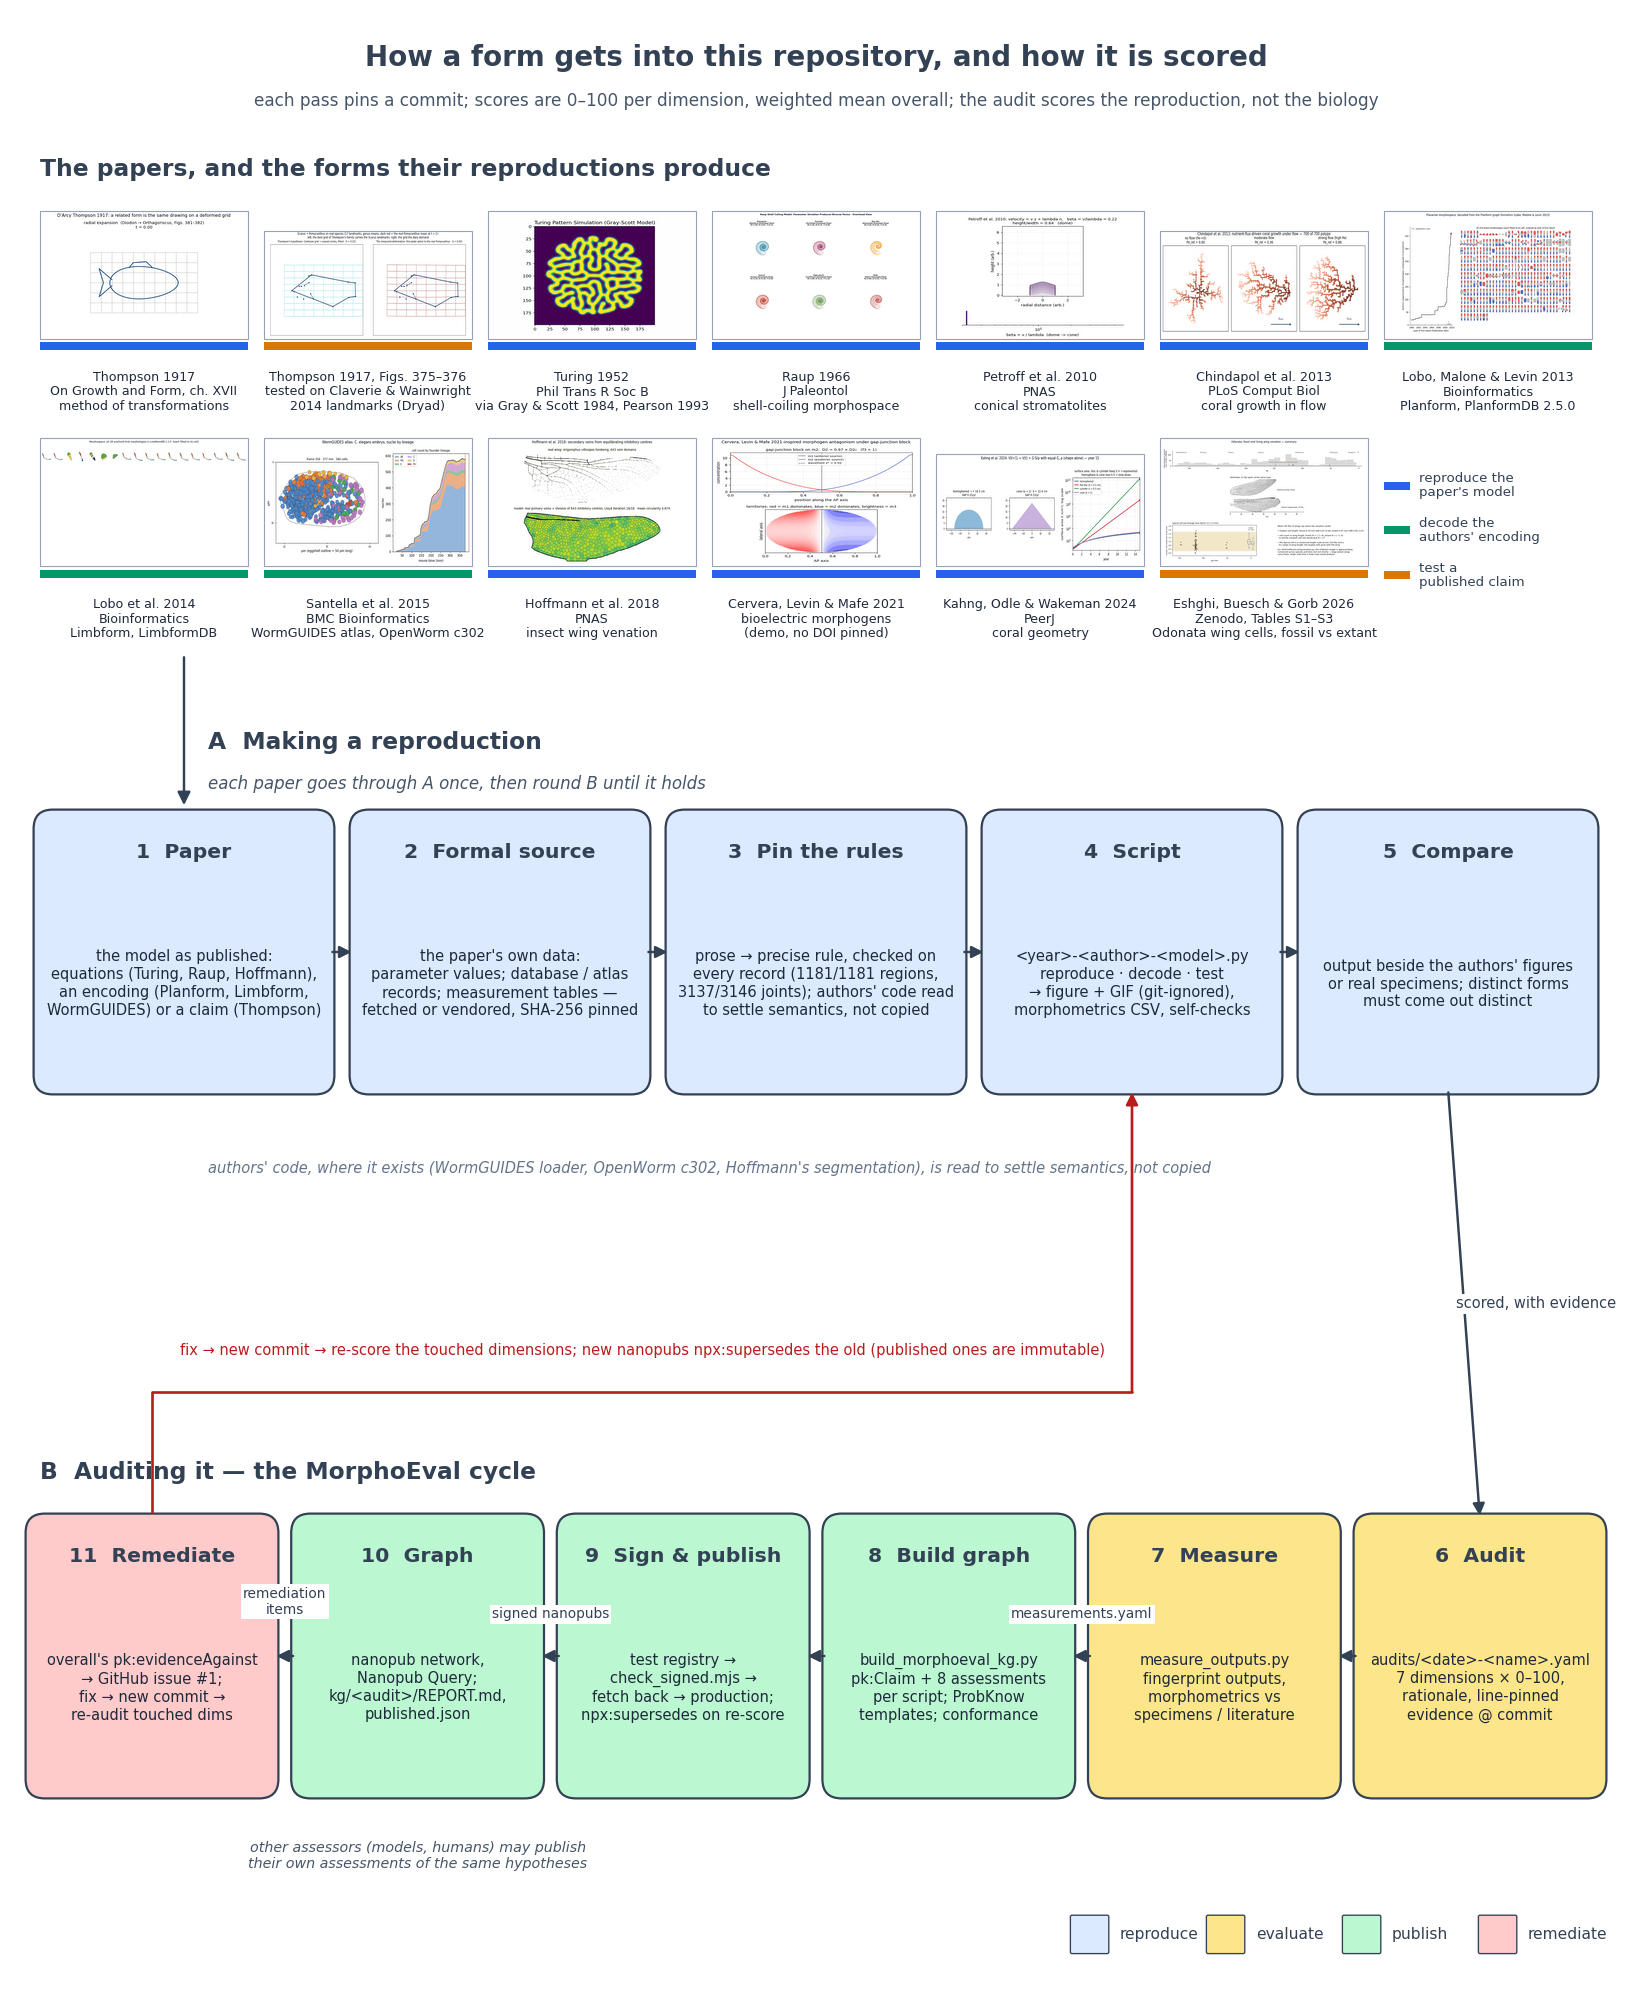
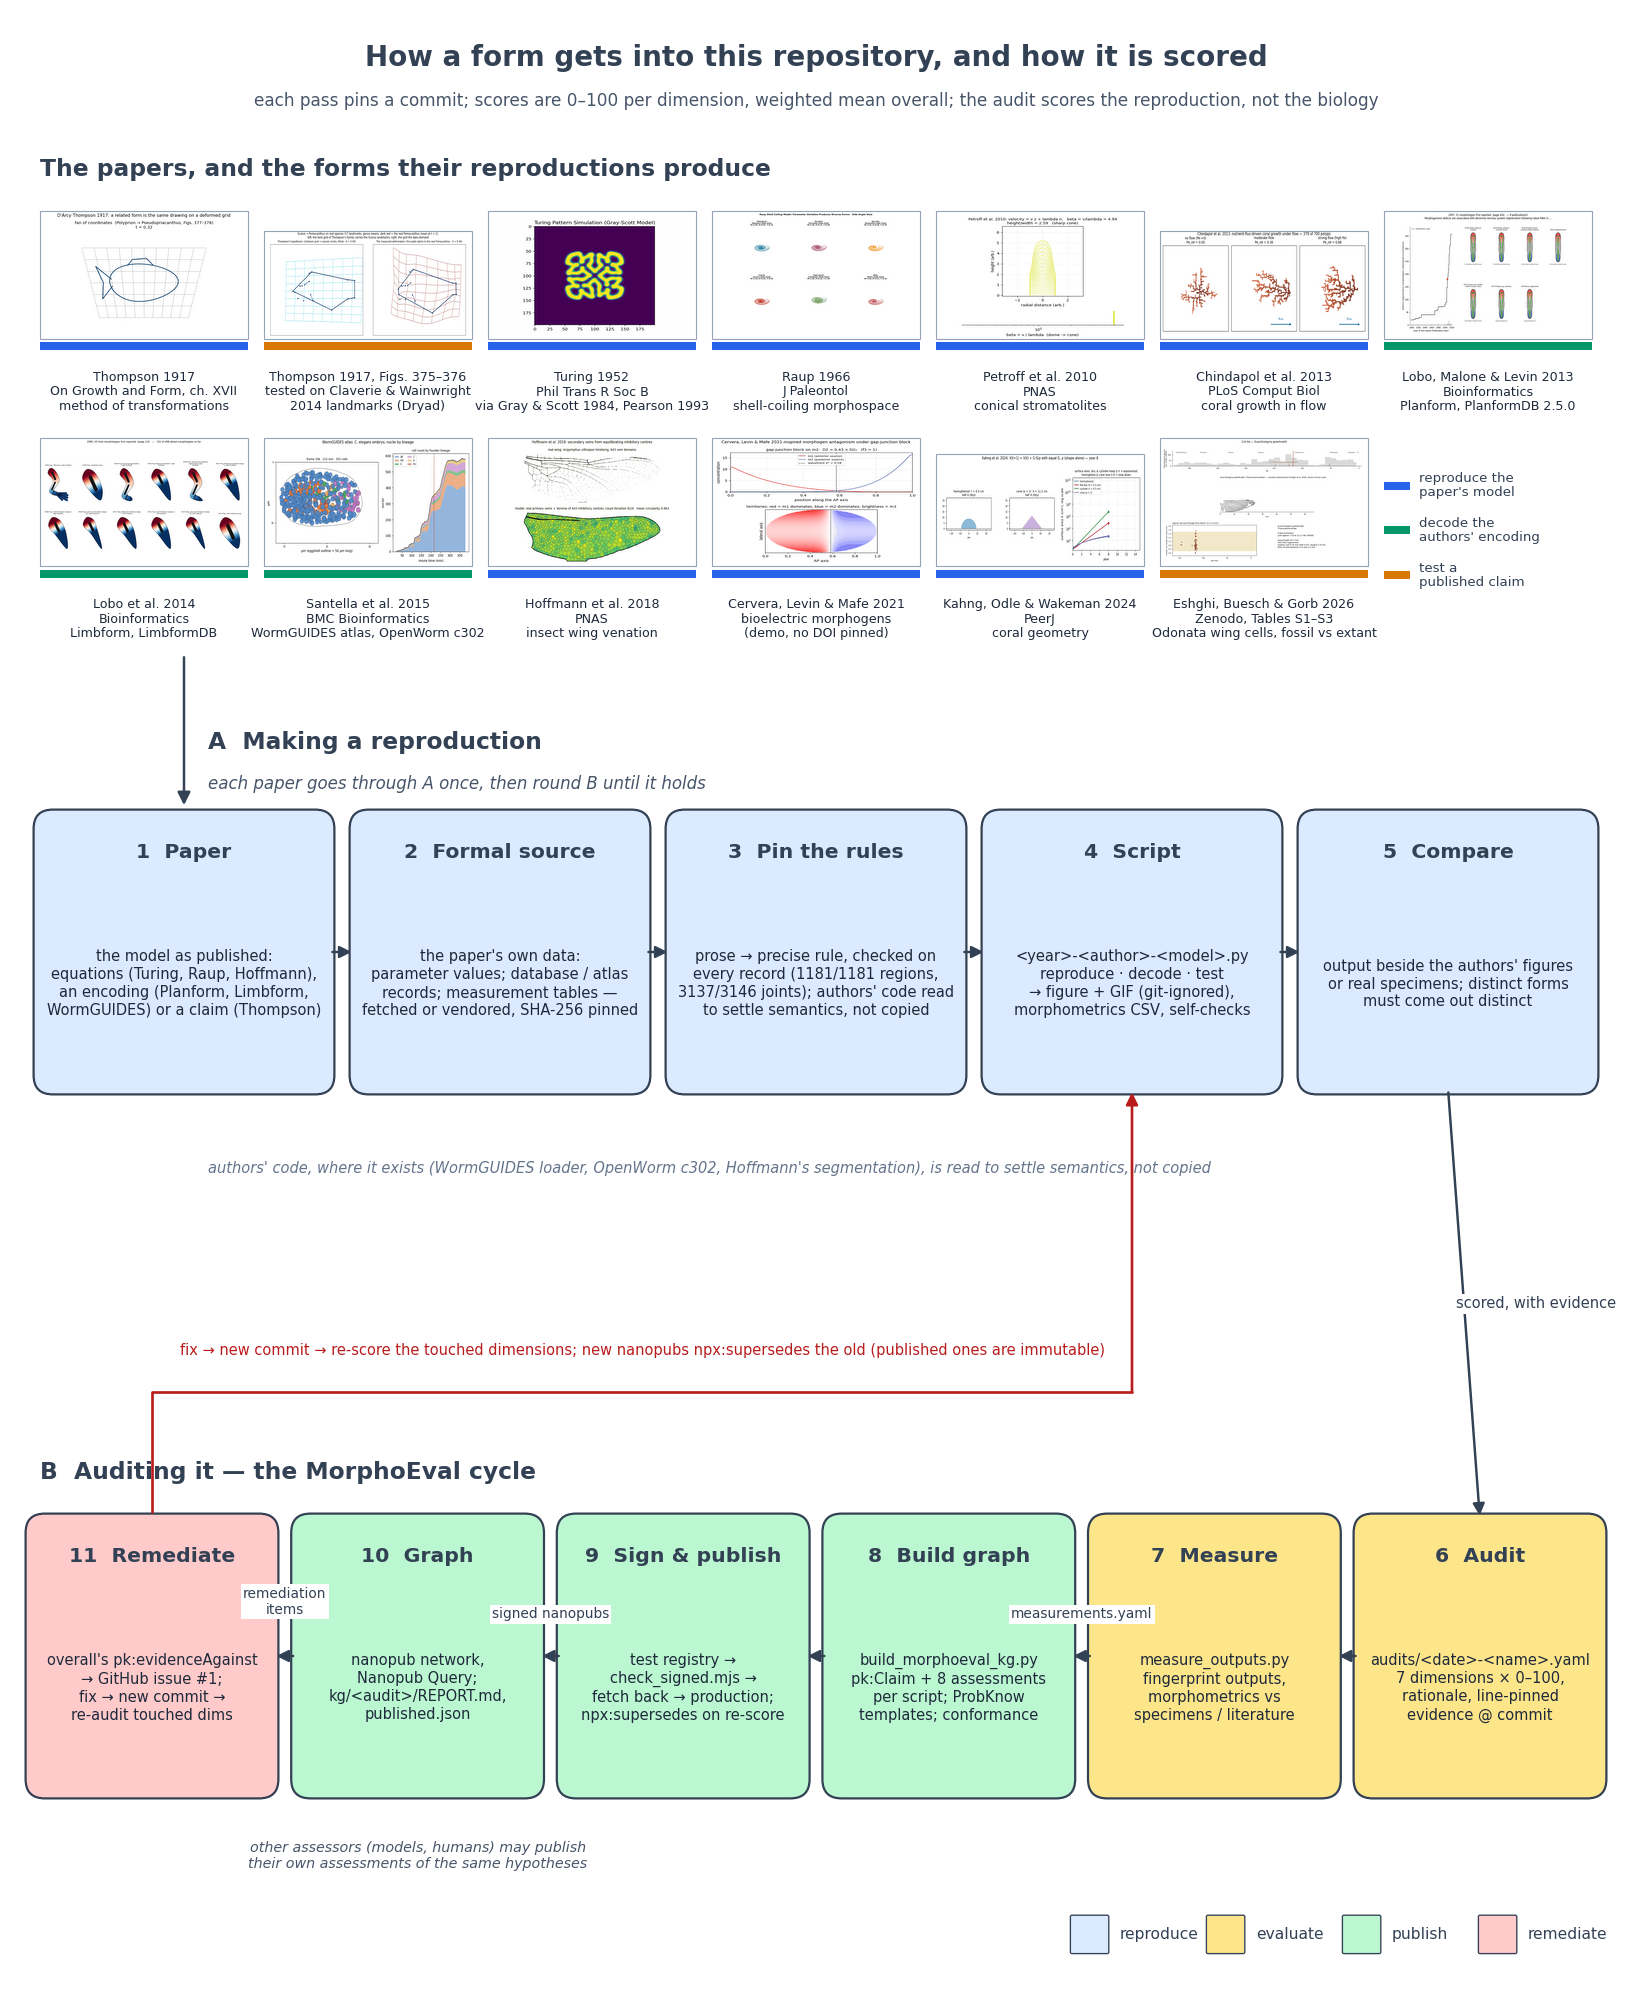
Animated pipeline diagram: the thirteen paper thumbnails play their own GIFs
draw_pipeline.py --gif renders the figure once, then composites each
reproduction's animation into its thumbnail rectangle (located via the axes
transform) for 40 frames; only those rectangles are re-quantised per frame,
so the rest of the image is byte-identical between frames and the GIF stays
at 683 KB (1040x984). The root README embeds the GIF; the PDF report keeps
the still PNG.

diff --git a/morphoeval/report/draw_pipeline.py b/morphoeval/report/draw_pipeline.py
@@ -75,11 +75,17 @@ YS = 83                                                      # bottom of the thu
 FIG_W, FIG_H, YLIM = 13.0, 12.3, 123.0
 
 
-def gif_frame(name: str, frac: float = 0.55):
+THUMBS = []                                                  # (gif name, data-coordinate extent) filled by strip()
+
+
+def gif_frames(name: str):
     from PIL import Image, ImageSequence
-    im = Image.open(MEDIA / name)
-    frames = list(ImageSequence.Iterator(im))
-    return frames[int(frac * (len(frames) - 1))].convert("RGB")
+    return [f.convert("RGB") for f in ImageSequence.Iterator(Image.open(MEDIA / name))]
+
+
+def gif_frame(name: str, frac: float = 0.55):
+    frames = gif_frames(name)
+    return frames[int(frac * (len(frames) - 1))]
 
 
 def strip(ax):
@@ -93,6 +99,7 @@ def strip(ax):
         th = tw * (img.height / img.width) * (FIG_W / 100.0) / (FIG_H / YLIM)
         th = min(th, row_h - 6.2)
         ax.imshow(img, extent=(x, x + tw, y + 5.6, y + 5.6 + th), zorder=3, interpolation="lanczos")
+        THUMBS.append((gif, (x, x + tw, y + 5.6, y + 5.6 + th)))
         ax.add_patch(FancyBboxPatch((x, y + 5.6), tw, th, boxstyle="square,pad=0", fc="none", ec="#94a3b8", lw=0.5, zorder=4))
         ax.add_patch(FancyBboxPatch((x, y + 4.9), tw, 0.5, boxstyle="square,pad=0", fc=KIND_COL[kind], ec="none", zorder=3))
         ax.text(x + tw / 2, y + 2.3, cap, ha="center", va="center", fontsize=5.7, color="#1e293b", linespacing=1.15)
@@ -124,10 +131,52 @@ def arrow(ax, a, sa, b, sb, label=None, rad=0.0, color=EDGE, ls="-", lx=0.0, ly=
                 color=color, bbox=dict(fc="white", ec="none", pad=1.0))
 
 
+def animate(fig, out: Path, n_frames: int = 40, duration_ms: int = 130, dpi: int = 80):
+    """The same figure as a GIF: everything static except the thumbnails, which each play their
+    own animation once per loop.  Only the thumbnail rectangles are re-quantised per frame, so
+    the rest of the image is byte-identical between frames and the encoder stores just the deltas."""
+    import io
+    import numpy as np
+    from PIL import Image
+
+    fig.set_dpi(dpi); fig.canvas.draw()
+    buf = io.BytesIO(); fig.savefig(buf, dpi=dpi, facecolor="white"); buf.seek(0)
+    base = Image.open(buf).convert("RGB"); W, Hpx = base.size
+    ax = fig.axes[0]
+
+    def px(extent):                                           # data coords -> pixel box, via the axes transform
+        x0, x1, y0, y1 = extent
+        (X0, Y0), (X1, Y1) = ax.transData.transform([(x0, y0), (x1, y1)])
+        return (round(X0), round(Hpx - Y1), round(X1), round(Hpx - Y0))
+
+    clips = []
+    for gif, extent in THUMBS:
+        b = px(extent); size = (b[2] - b[0], b[3] - b[1])
+        frames = gif_frames(gif)
+        clips.append((b, [f.resize(size, Image.LANCZOS) for f in frames]))
+
+    sample = base.copy()                                      # palette from the base plus a spread of clip frames
+    for k in (0, n_frames // 3, 2 * n_frames // 3):
+        for b, frames in clips:
+            sample.paste(frames[(k * len(frames)) // n_frames], b[:2])
+    pal = sample.quantize(colors=255, method=Image.Quantize.MEDIANCUT)
+    base_p = base.quantize(palette=pal, dither=Image.Dither.FLOYDSTEINBERG)
+
+    out_frames = []
+    for k in range(n_frames):
+        f = base_p.copy()
+        for b, frames in clips:
+            f.paste(frames[(k * len(frames)) // n_frames].quantize(palette=pal, dither=Image.Dither.FLOYDSTEINBERG), b[:2])
+        out_frames.append(f)
+    out_frames[0].save(out, save_all=True, append_images=out_frames[1:], duration=duration_ms, loop=0, optimize=True)
+    print(f"saved {out}  ({W}x{Hpx}, {n_frames} frames, {out.stat().st_size // 1024} KB)")
+
+
 def main(argv=None):
     ap = argparse.ArgumentParser()
     ap.add_argument("--out", default=str(ROOT / "docs" / "media" / "morphoeval_pipeline.png"))
     ap.add_argument("--svg", action="store_true")
+    ap.add_argument("--gif", action="store_true", help="also write the animated version next to --out")
     args = ap.parse_args(argv)
 
     fig, ax = plt.subplots(figsize=(FIG_W, FIG_H)); fig.subplots_adjust(0, 0, 1, 1)
@@ -183,6 +232,8 @@ def main(argv=None):
     if args.svg:
         fig.savefig(out.with_suffix(".svg"), bbox_inches="tight", facecolor="white")
     print(f"saved {out}")
+    if args.gif:
+        animate(fig, out.with_suffix(".gif"))
 
 
 if __name__ == "__main__":

diff --git a/README.md b/README.md
@@ -254,9 +254,9 @@ Thompson-focused notes and dataset curation are in:
 
 [`morphoeval/`](./morphoeval/) is a seven-dimension rubric (model fidelity, specimen match, parameter expressivity, morphometric validation, source traceability, code traceability, reproducibility package; weights sum to 100) applied to the scripts above, with every score backed by line-pinned evidence at a recorded commit and by measurements taken on the rendered outputs. Audits are YAML files under `morphoeval/audits/`, built into ProbKnow-conformant nanopublications (`pk:LLMClaimAssessment` per dimension, `schema:PropertyValue` measurement evidence), signed, verified independently, and published to the production nanopub network; re-scores are new nanopubs that `npx:supersedes` the old ones.
 
-How a form gets into the repository and how it is scored. Top: the thirteen source papers, each shown with a frame of its reproduction's animation and colour-coded by what the script does with it (reproduce the paper's model from its equations, decode the authors' formal encoding, or test a published claim). Tier A: paper → its formal source → rules pinned and verified on the data → script → comparison with the authors' figures or specimens. Tier B: the audit cycle (the Mermaid source is in [`morphoeval/README.md`](./morphoeval/README.md#the-cycle)):
+How a form gets into the repository and how it is scored. Top: the thirteen source papers, each playing its reproduction's own animation and colour-coded by what the script does with it (reproduce the paper's model from its equations, decode the authors' formal encoding, or test a published claim). Tier A: paper → its formal source → rules pinned and verified on the data → script → comparison with the authors' figures or specimens. Tier B: the audit cycle (the Mermaid source is in [`morphoeval/README.md`](./morphoeval/README.md#the-cycle)):
 
-![How a reproduction is made and how MorphoEval scores it](./docs/media/morphoeval_pipeline.png)
+![How a reproduction is made and how MorphoEval scores it](./docs/media/morphoeval_pipeline.gif)
 
 | simulation | checkpoint | faithfulness | reproducibility | overall |
 |---|---|---:|---:|---:|

diff --git a/morphoeval/README.md b/morphoeval/README.md
@@ -45,11 +45,12 @@ scripts that were not inspected are listed `unevaluated` with no scores.
 Tier A is how a form gets into the repository (three kinds of script: reproduce the
 paper's model from its equations, decode the authors' formal encoding into form, or test a published
 claim against measurements); tier B is how it is scored. Each pass pins a commit; scores are 0–100 per dimension with a weighted mean overall; published
-nanopubs are immutable and re-scores supersede them. The same figure as a PNG (for the PDF report
+nanopubs are immutable and re-scores supersede them. The same figure as an image (for the PDF report
 and anything that cannot render Mermaid) is `docs/media/morphoeval_pipeline.png`, drawn by
-`morphoeval/report/draw_pipeline.py`; the PNG also heads the two tiers with the thirteen source
-papers (author, year, venue, data source) each illustrated by a frame of its reproduction's
-animation from `docs/media/`.
+`morphoeval/report/draw_pipeline.py`; it also heads the two tiers with the thirteen source
+papers (author, year, venue, data source), each illustrated from its reproduction's animation in
+`docs/media/`. `draw_pipeline.py --gif` writes `morphoeval_pipeline.gif`, the same figure with
+the thumbnails playing (used at the top of the root README); the PDF report uses the still.
 
 ```mermaid
 flowchart TB

diff --git a/docs/media/README.md b/docs/media/README.md
@@ -26,6 +26,6 @@ Downsizing: frames sampled evenly, resized with Lanczos, quantised with median
 cut and Floyd–Steinberg dithering, frame duration scaled to keep the original
 running time (Pillow 12.0.0). Total ≈ 15 MB.
 
-`morphoeval_pipeline.png` is not a script output but documentation: the source papers (illustrated with frames taken from the GIFs in this folder), how a reproduction is made, and the MorphoEval cycle, drawn by `morphoeval/report/draw_pipeline.py` (deterministic; re-run it after editing the stages or regenerating a GIF).
+`morphoeval_pipeline.png` and `morphoeval_pipeline.gif` are not script outputs but documentation: the source papers (illustrated from the GIFs in this folder; in the GIF version each thumbnail plays its animation once per loop), how a reproduction is made, and the MorphoEval cycle, drawn by `morphoeval/report/draw_pipeline.py --gif` (deterministic; re-run it after editing the stages or regenerating a GIF).
 
 `all_forms_montage.gif` tiles the thirteen animations above (each resampled to 40 frames across its own loop, fitted whole into a 216-px tile, shared 128-colour palette) with a title tile and the MorphoEval overall scores read from the audit YAMLs; `python3 docs/media/make_montage.py` remakes it after any animation or score changes.
